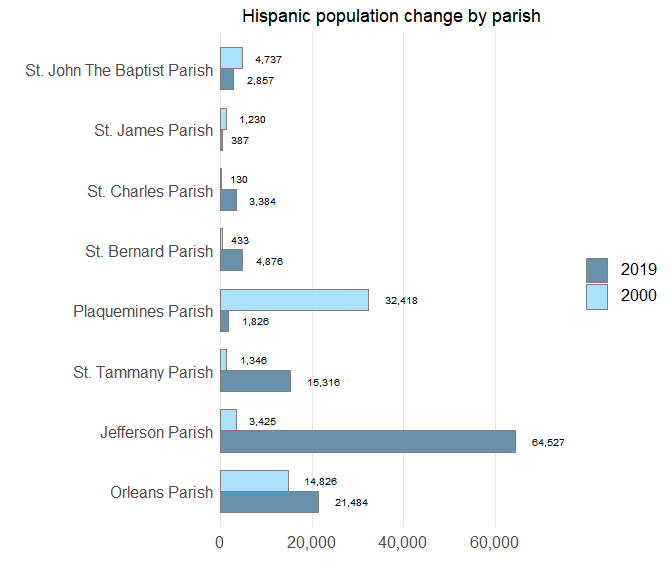
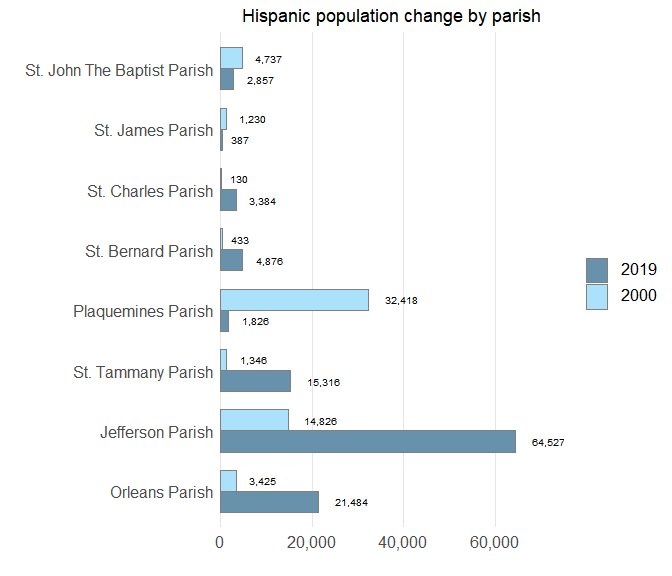
re-updated after saving some new changes

Changed region(s): [[0.3438, 0.8125, 0.5, 0.875], [0.3438, 0.6875, 0.5, 0.75]]

diff --git a/SQLWhoLivesMarkdown.md b/SQLWhoLivesMarkdown.md
@@ -64,7 +64,7 @@ decrease in 2019.
 </div>
 
 Between 2000 and 2019, the number of Hispanics in Jefferson Parish
-increased by 61,102 reaching over 15 percent of the total parish
+increased by 49,701 reaching over 15 percent of the total parish
 population. Orleans Parish and St. Tammany Parish gained 6,658 and
 13,970 Hispanics, respectively, such that the Hispanic share of the
 population was 6 percent in Orleans and 6 percent in St. Tammany in
